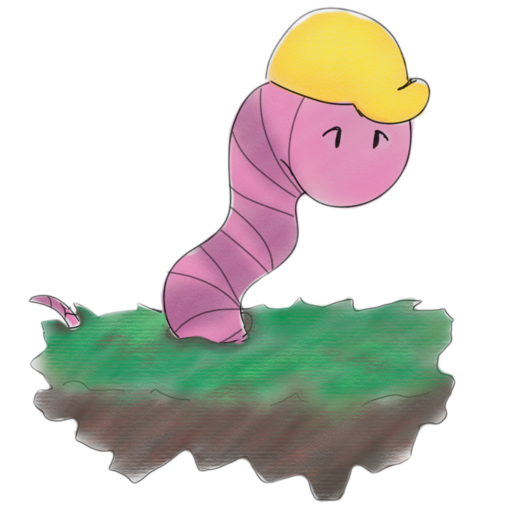
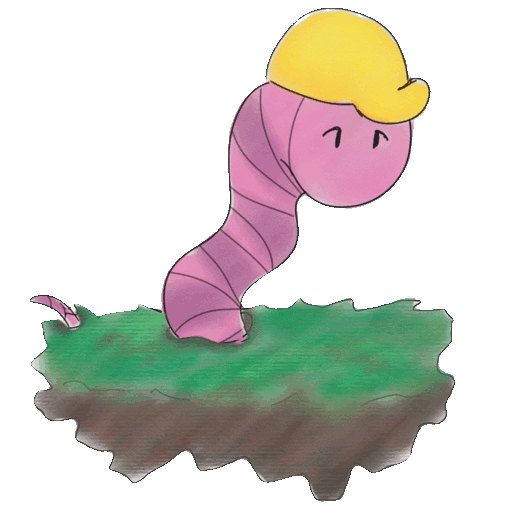
Use PNG with indexed colors to match GIF size

diff --git a/README.md b/README.md
@@ -1,6 +1,6 @@
 # Reffy
 
-<img align="right" width="256" height="256" src="images/reffy-512.gif" alt="Reffy, represented as a brave little worm with a construction helmet, ready to crawl specs">
+<img align="right" width="256" height="256" src="images/reffy-512.png" alt="Reffy, represented as a brave little worm with a construction helmet, ready to crawl specs">
 
 Reffy is a **Web spec crawler** tool. It is notably used to update [Webref](https://github.com/w3c/webref#webref) every 6 hours.
 
